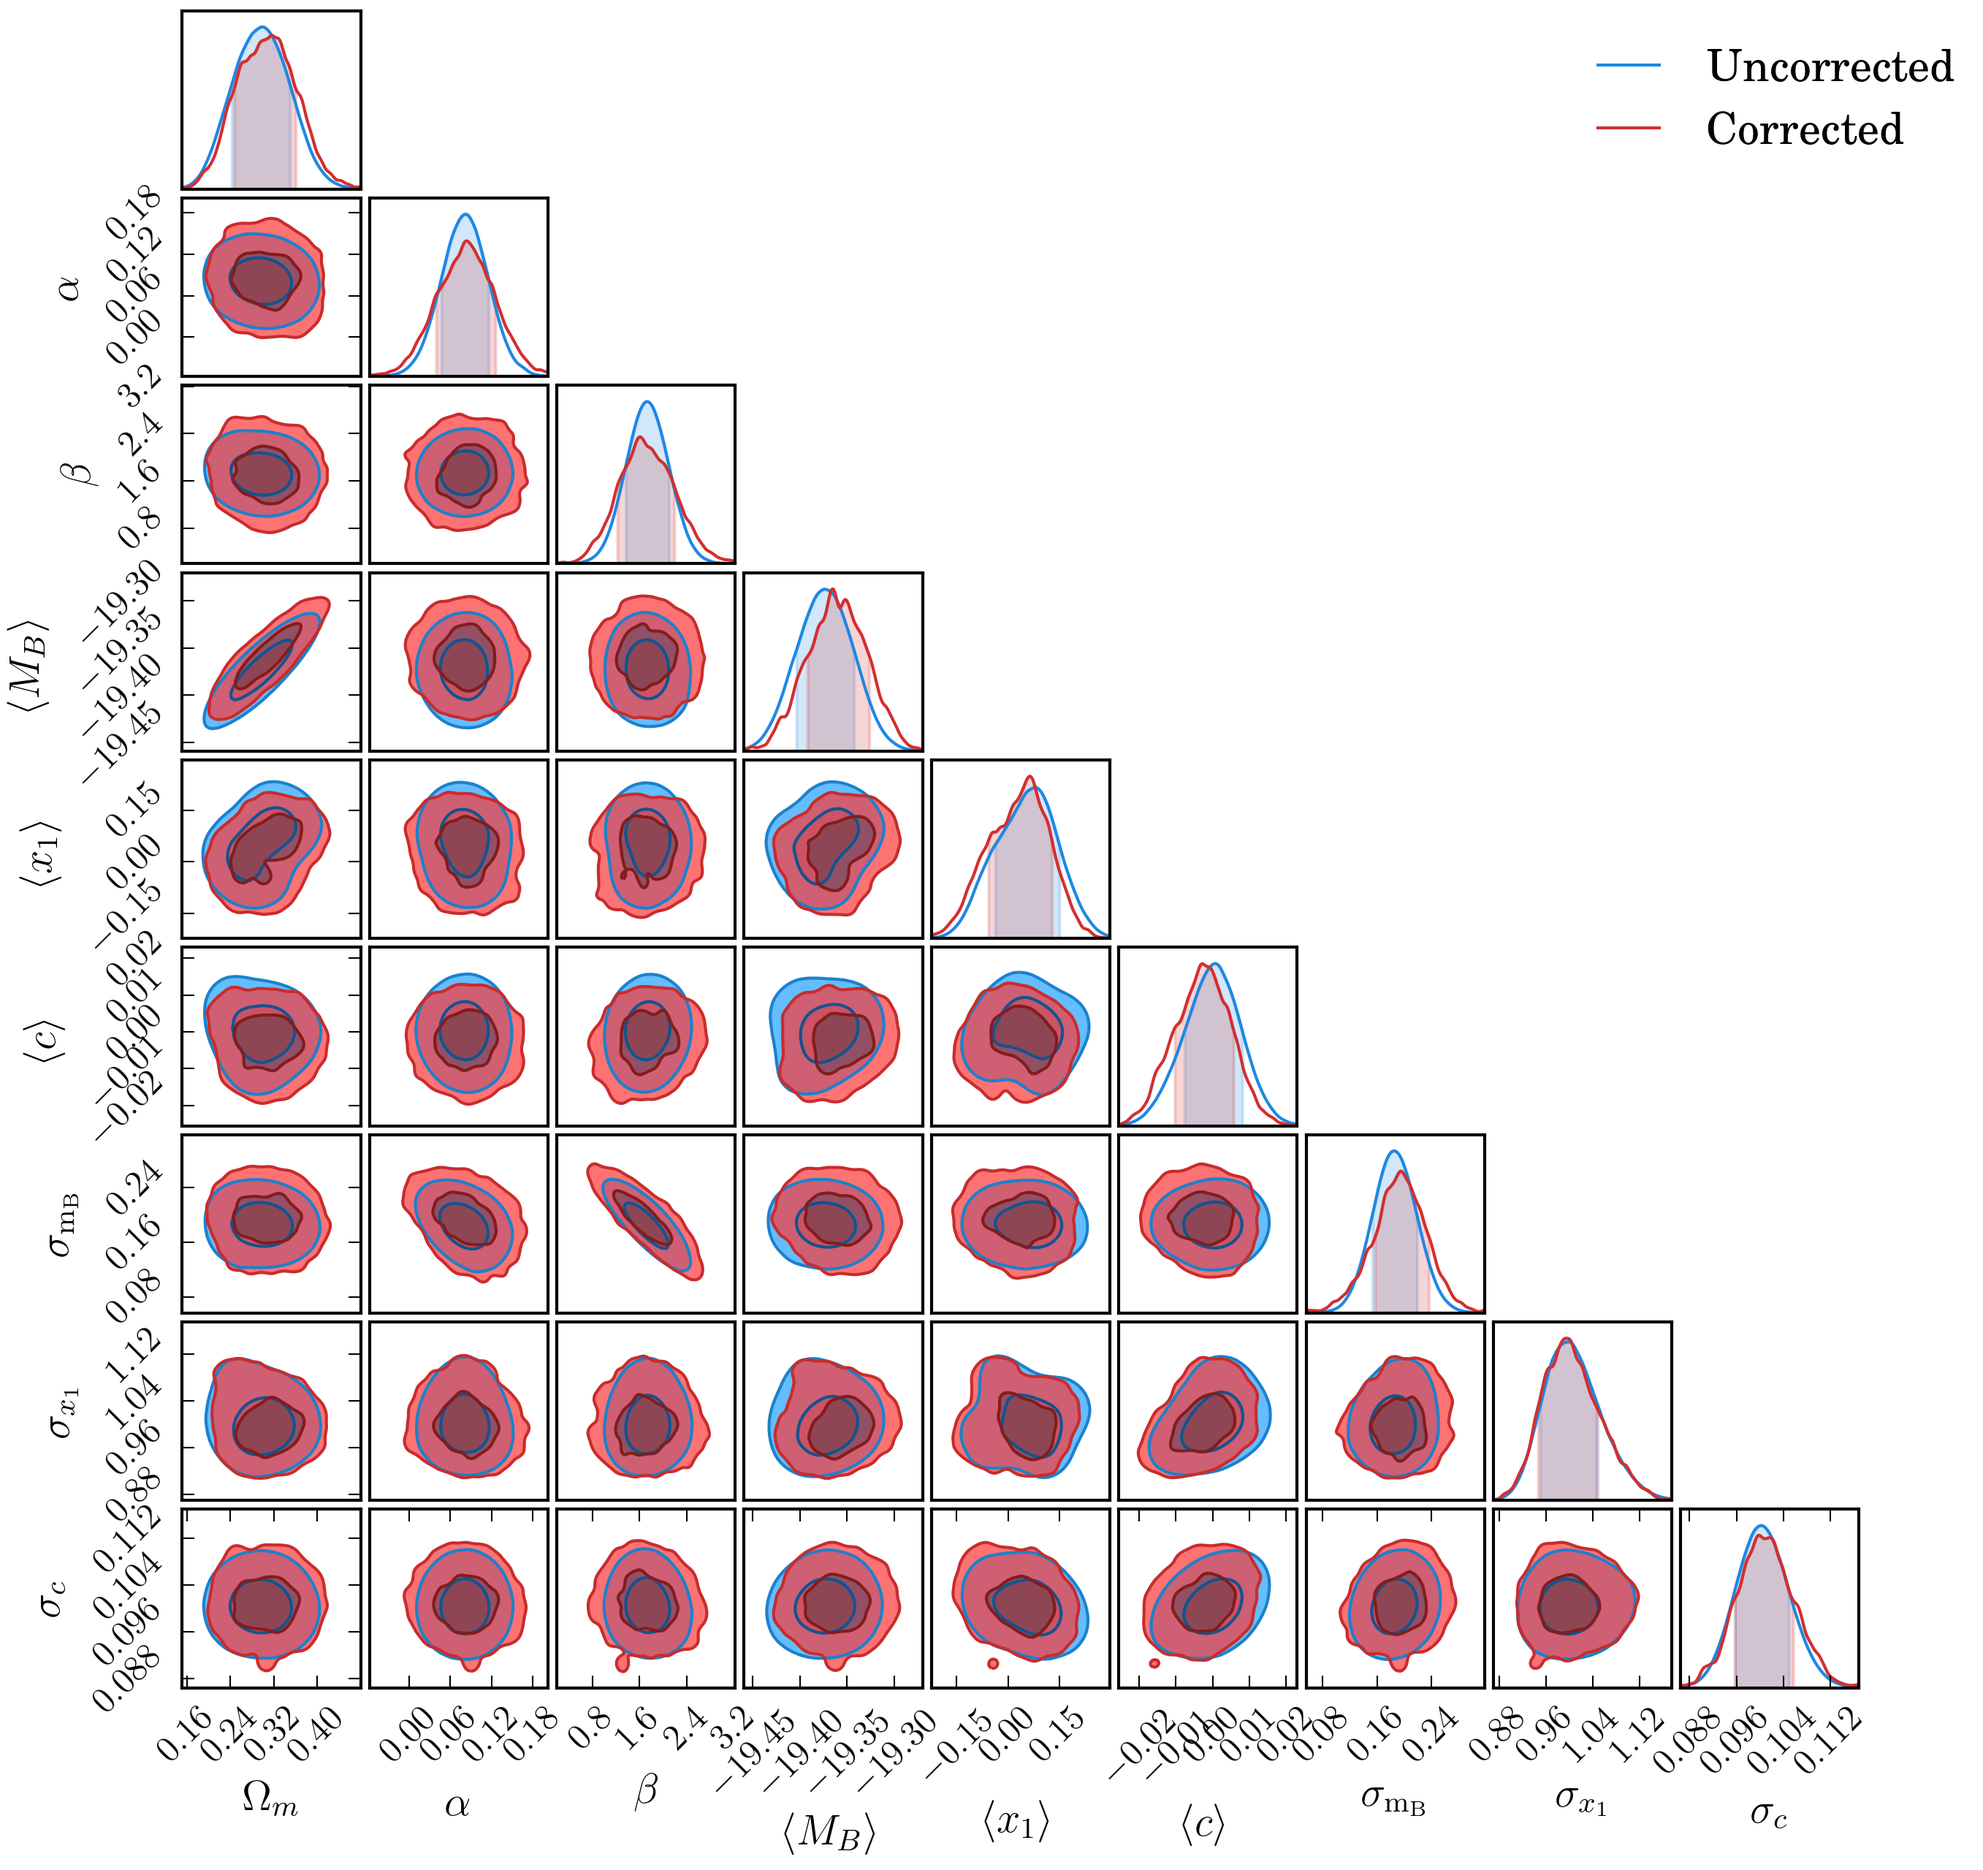
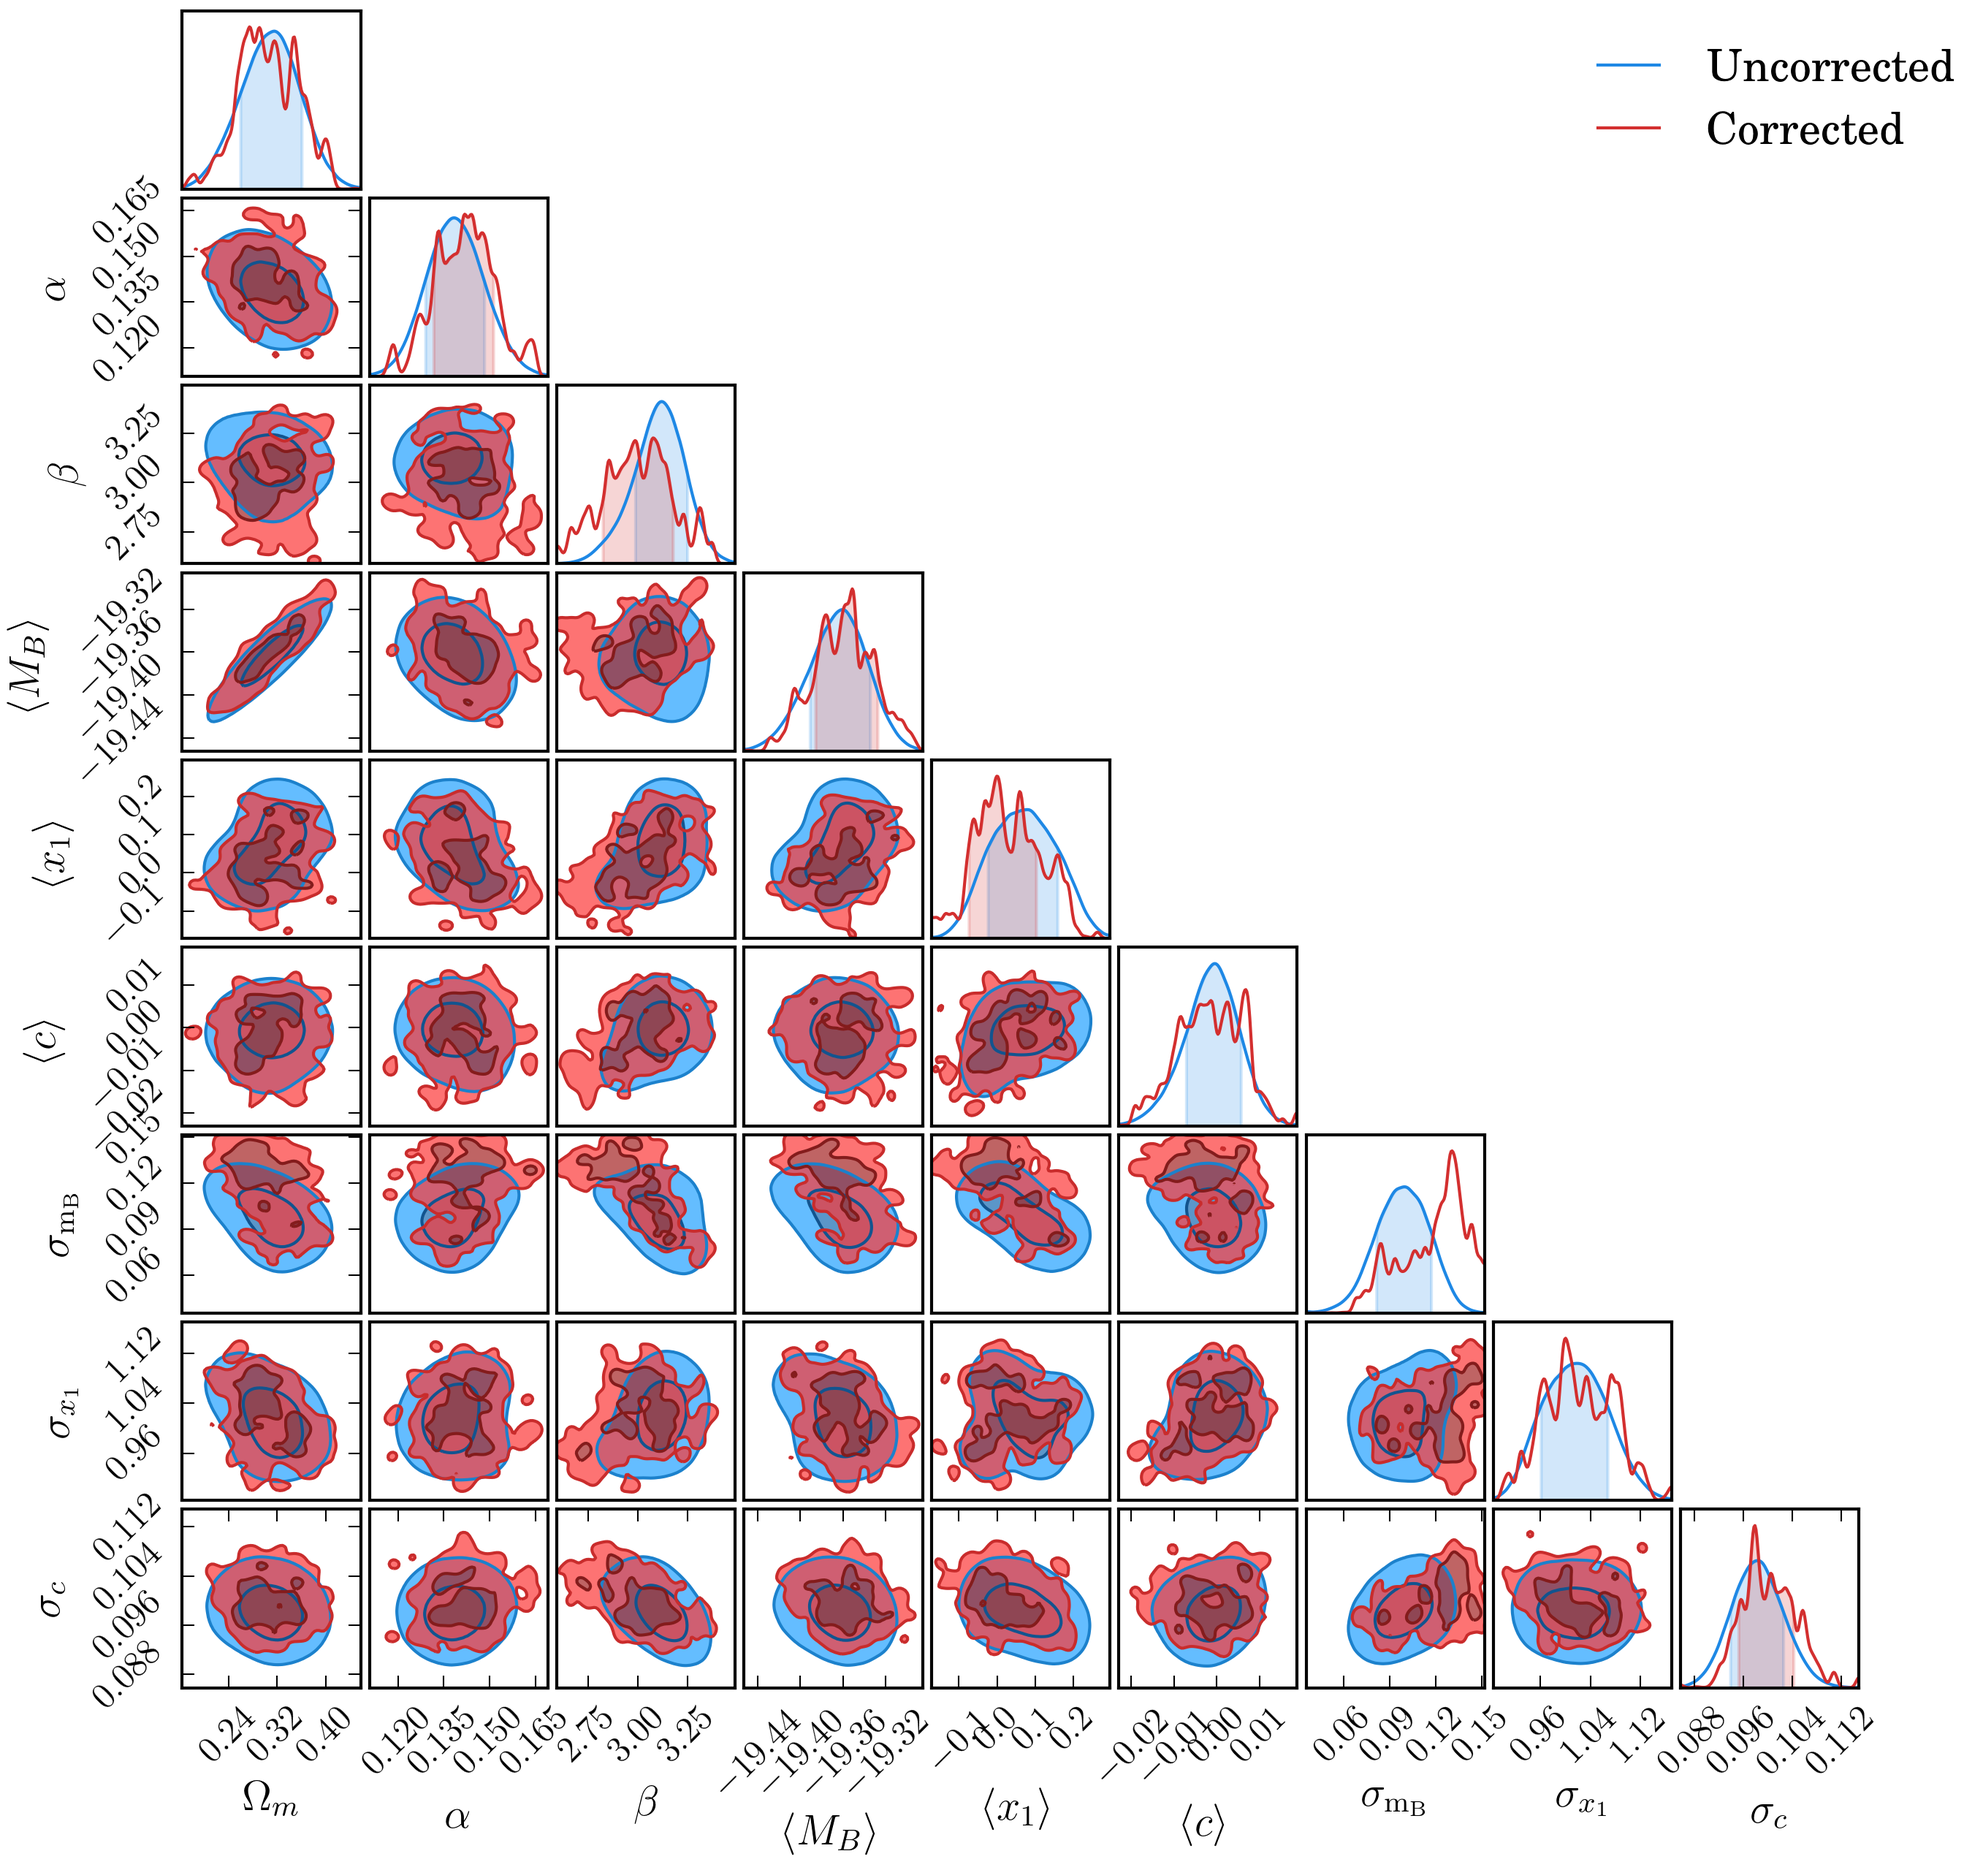
Lets tru dogmatix again

Changed region(s): [[0.031, 0.0, 0.9595, 0.9879], [0.0, 0.4322, 0.031, 0.4631]]

diff --git a/dessn/models/d_simple_stan/truth.py b/dessn/models/d_simple_stan/truth.py
@@ -6,13 +6,13 @@ def get_truths_labels_significance():
     result = [
         ("Om", 0.3, r"$\Omega_m$", True, 0.1, 0.6),
         # ("w", -1.0, r"$w$", True, -1.5, -0.5),
-        ("alpha", 0.1, r"$\alpha$", True, 0, 0.5),
-        ("beta", 3.0, r"$\beta$", True, 0, 5),
-        ("mean_MB", -19.3, r"$\langle M_B \rangle$", True, -19.6, -19),
-        ("mean_x1", 0.2, r"$\langle x_1 \rangle$", True, -0.5, 0.5),
-        ("mean_c", 0.1, r"$\langle c \rangle$", True, -0.2, 0.2),
+        ("alpha", 0.14, r"$\alpha$", True, 0, 0.5),
+        ("beta", 3.1, r"$\beta$", True, 0, 5),
+        ("mean_MB", -19.365, r"$\langle M_B \rangle$", True, -19.6, -19),
+        ("mean_x1", 0, r"$\langle x_1 \rangle$", True, -0.5, 0.5),
+        ("mean_c", 0, r"$\langle c \rangle$", True, -0.2, 0.2),
         ("sigma_MB", 0.1, r"$\sigma_{\rm m_B}$", True, 0.05, 0.3),
-        ("sigma_x1", 0.5, r"$\sigma_{x_1}$", True, 0.1, 2.0),
+        ("sigma_x1", 1.0, r"$\sigma_{x_1}$", True, 0.1, 2.0),
         ("sigma_c", 0.1, r"$\sigma_c$", True, 0.05, 0.4),
         ("log_sigma_MB", np.log(0.1), r"$\log\sigma_{\rm m_B}$", True, -10, 1),
         ("log_sigma_x1", np.log(0.5), r"$\log\sigma_{x_1}$", True, -10, 1),

diff --git a/dessn/models/d_simple_stan/approx_skewnorm/load.py b/dessn/models/d_simple_stan/approx_skewnorm/load.py
@@ -19,6 +19,6 @@ if __name__ == "__main__":
     chain["weight"] = ow
     c.add_chain(chain, posterior=posterior, name="Corrected")
     c.configure(color_params="weight")
-    c.plot(filename=dir_name + "/colour.png")
+    c.plot(filename=dir_name + "/colour.png", truth=t)
 
 
